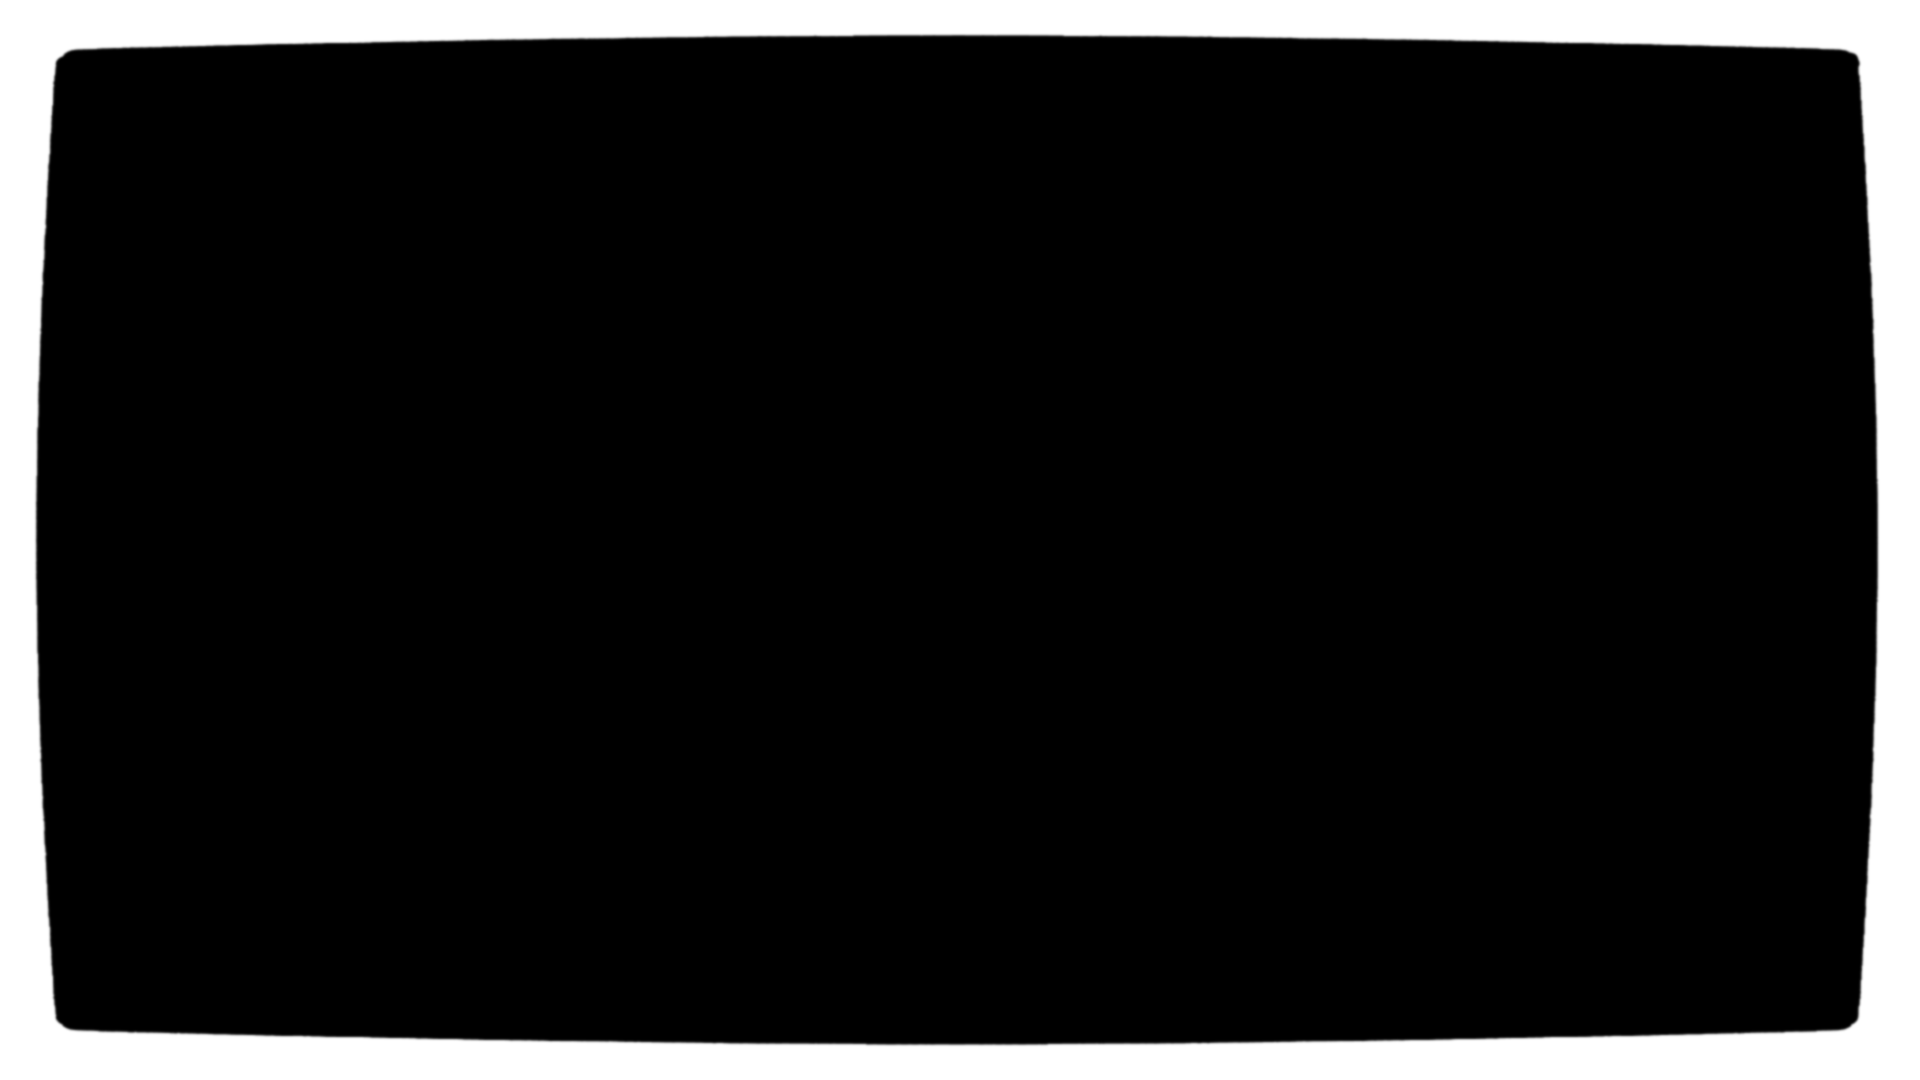
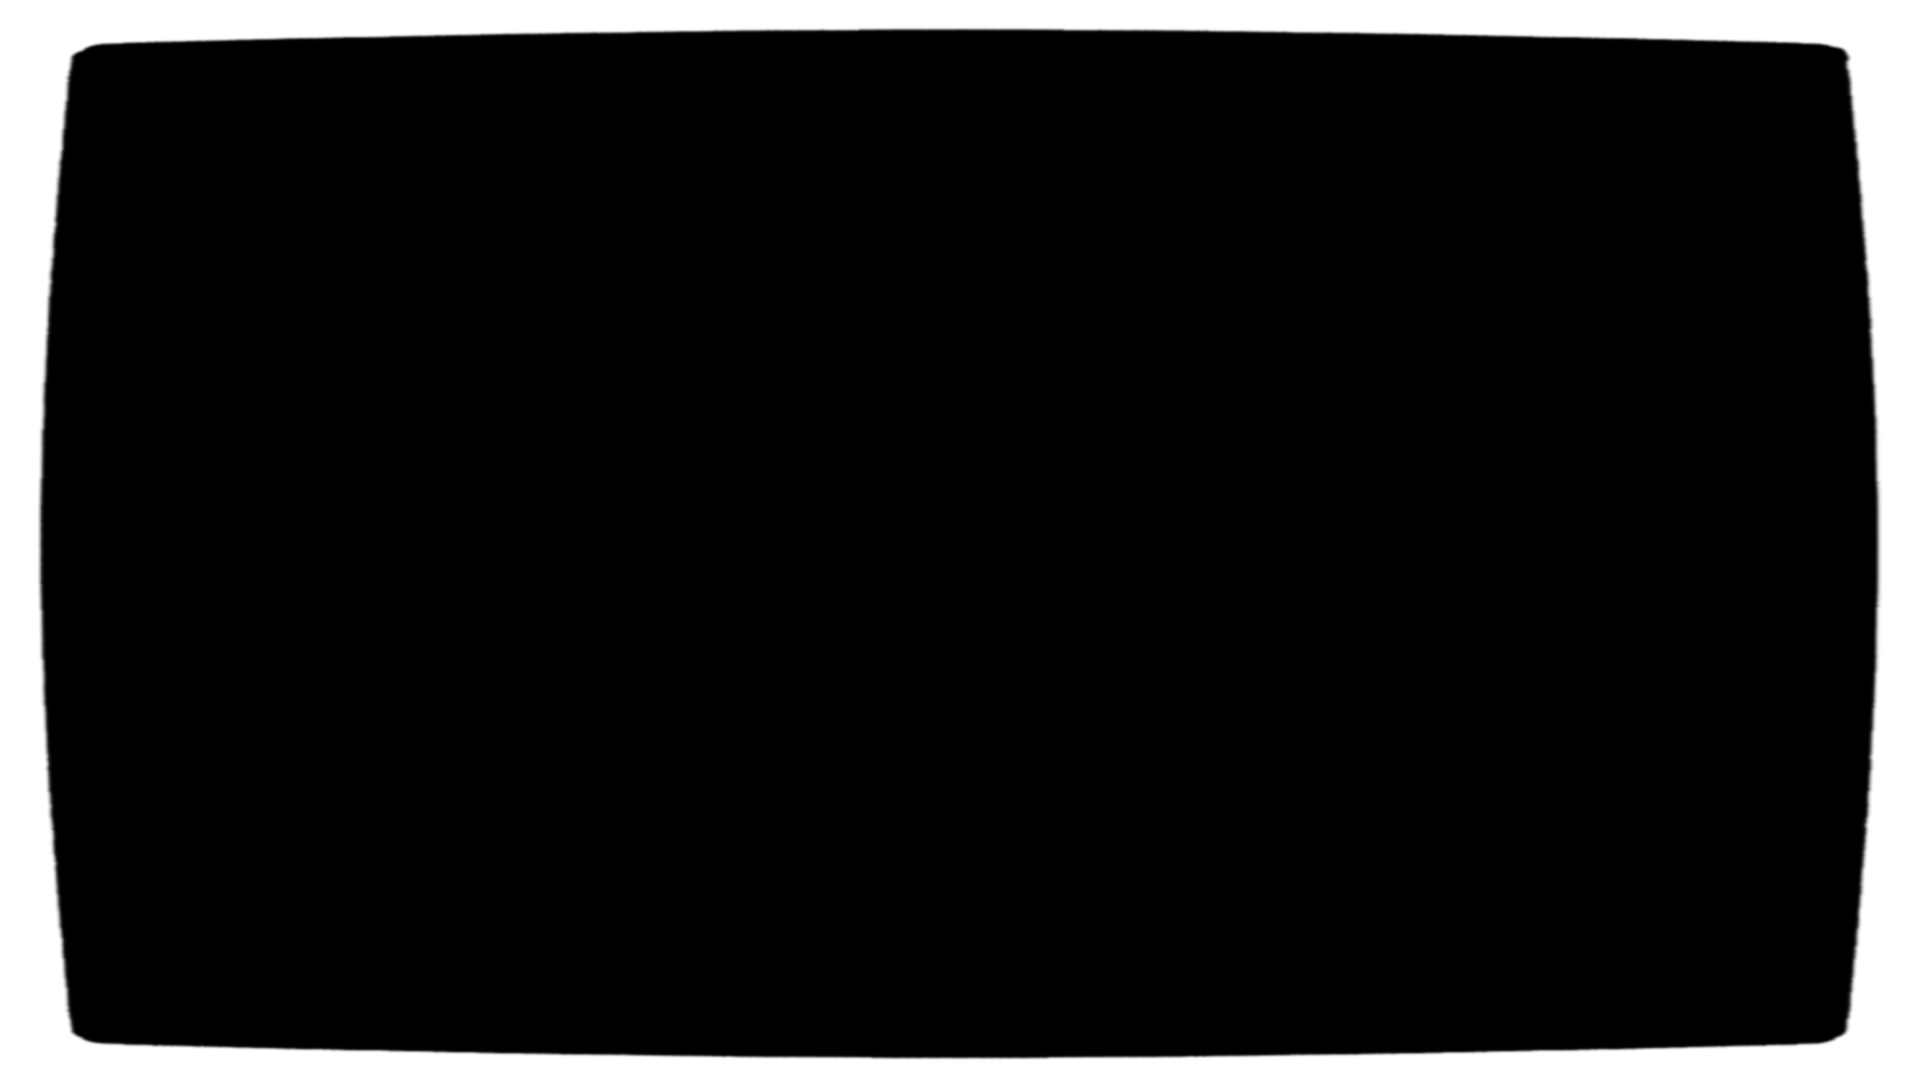
fixed responsive edges

Changed region(s): [[0.0, 0.0, 0.9688, 1.0], [0.9688, 0.7028, 1.0, 0.8556], [0.9688, 0.1528, 1.0, 0.3056]]

diff --git a/src/components/layout.css b/src/components/layout.css
@@ -144,7 +144,7 @@ body {
   opacity: 0;
   z-index: 2;
   pointer-events: none;
-  animation: flicker 1.5s infinite;
+  animation: flicker 0.15s infinite;
 }
 
 @keyframes textShadow {
@@ -217,8 +217,8 @@ body {
   scrollbar-width: none; 
   border: thin solid black;
   animation: textShadow 5s infinite;
-  background: radial-gradient(transparent, rgb(167, 1, 1)), rgba(210, 9, 9);
-  height: 100vh;
+  background: radial-gradient(transparent, rgb(15, 15, 15)), #0e0e0e;
+  height: 98vh;
   padding: 5px;
 }
 
@@ -273,15 +273,9 @@ body {
   position: relative;
   width: 100%;
   height: 100%;
-  /* border: 40px solid transparent; */
-  box-sizing: border-box;
-  /* 
-  border-image-source: url(../images/border.png);
-  border-image-slice: 80 fill;
-  border-image-outset: 0; */
-  background-color: rgb(1, 1, 1) ;
+  aspect-ratio: inherit;
   mask-image: url(../images/border.png);
-  mask-size: contain;
+  mask-size: 100% 100%;
   mask-repeat: no-repeat;
   overflow: hidden;
 }

diff --git a/src/components/layout.js b/src/components/layout.js
@@ -30,9 +30,12 @@ const Layout = ({ children }) => {
       <div id="monitor">
           <div id="bezel">
               <div id="crt" > 
-                  <div class="scanline"></div>
-                  <div class="terminal" style={{fontSize: '30px', color: '#ede0e0'}}>
-                    <h1>The Quick Brown Fox Jumps Over The Lazy Dog in abakaliki next year</h1>
+                  <div className="scanline"></div>
+                  <div className="terminal" style={{fontSize: '30px', color: '#ede0e0'}}>
+                  <div style={{width: '400px',height:  '100px', backgroundColor: 'green',}}></div>
+                    <h1>The Quick Brown Fox Jumps Over The Lazy Dog next year</h1>
+                    <div style={{width: '300px',height:  '300px', backgroundColor: 'red',}}></div>
+                    <div style={{width: '400px',height:  '300px', backgroundColor: 'blue',}}></div>
 
                   </div>
               </div>

diff --git a/src/components/layout.scss b/src/components/layout.scss
@@ -271,7 +271,7 @@ body {
 
 #bezel {
   position: relative;
-  width: 100%;
+  width: 600px;
   height: 100%;
   /* border: 40px solid transparent; */
   box-sizing: border-box;
@@ -280,9 +280,9 @@ body {
   border-image-slice: 80 fill;
   border-image-outset: 0; */
   background-color: rgb(1, 1, 1) ;
-  mask-image: url(../images/border.png);
+  mask-image: url(../images/bofrder.png);
   mask-size: contain;
   mask-repeat: no-repeat;
   overflow: hidden;
 }
-
+ 
